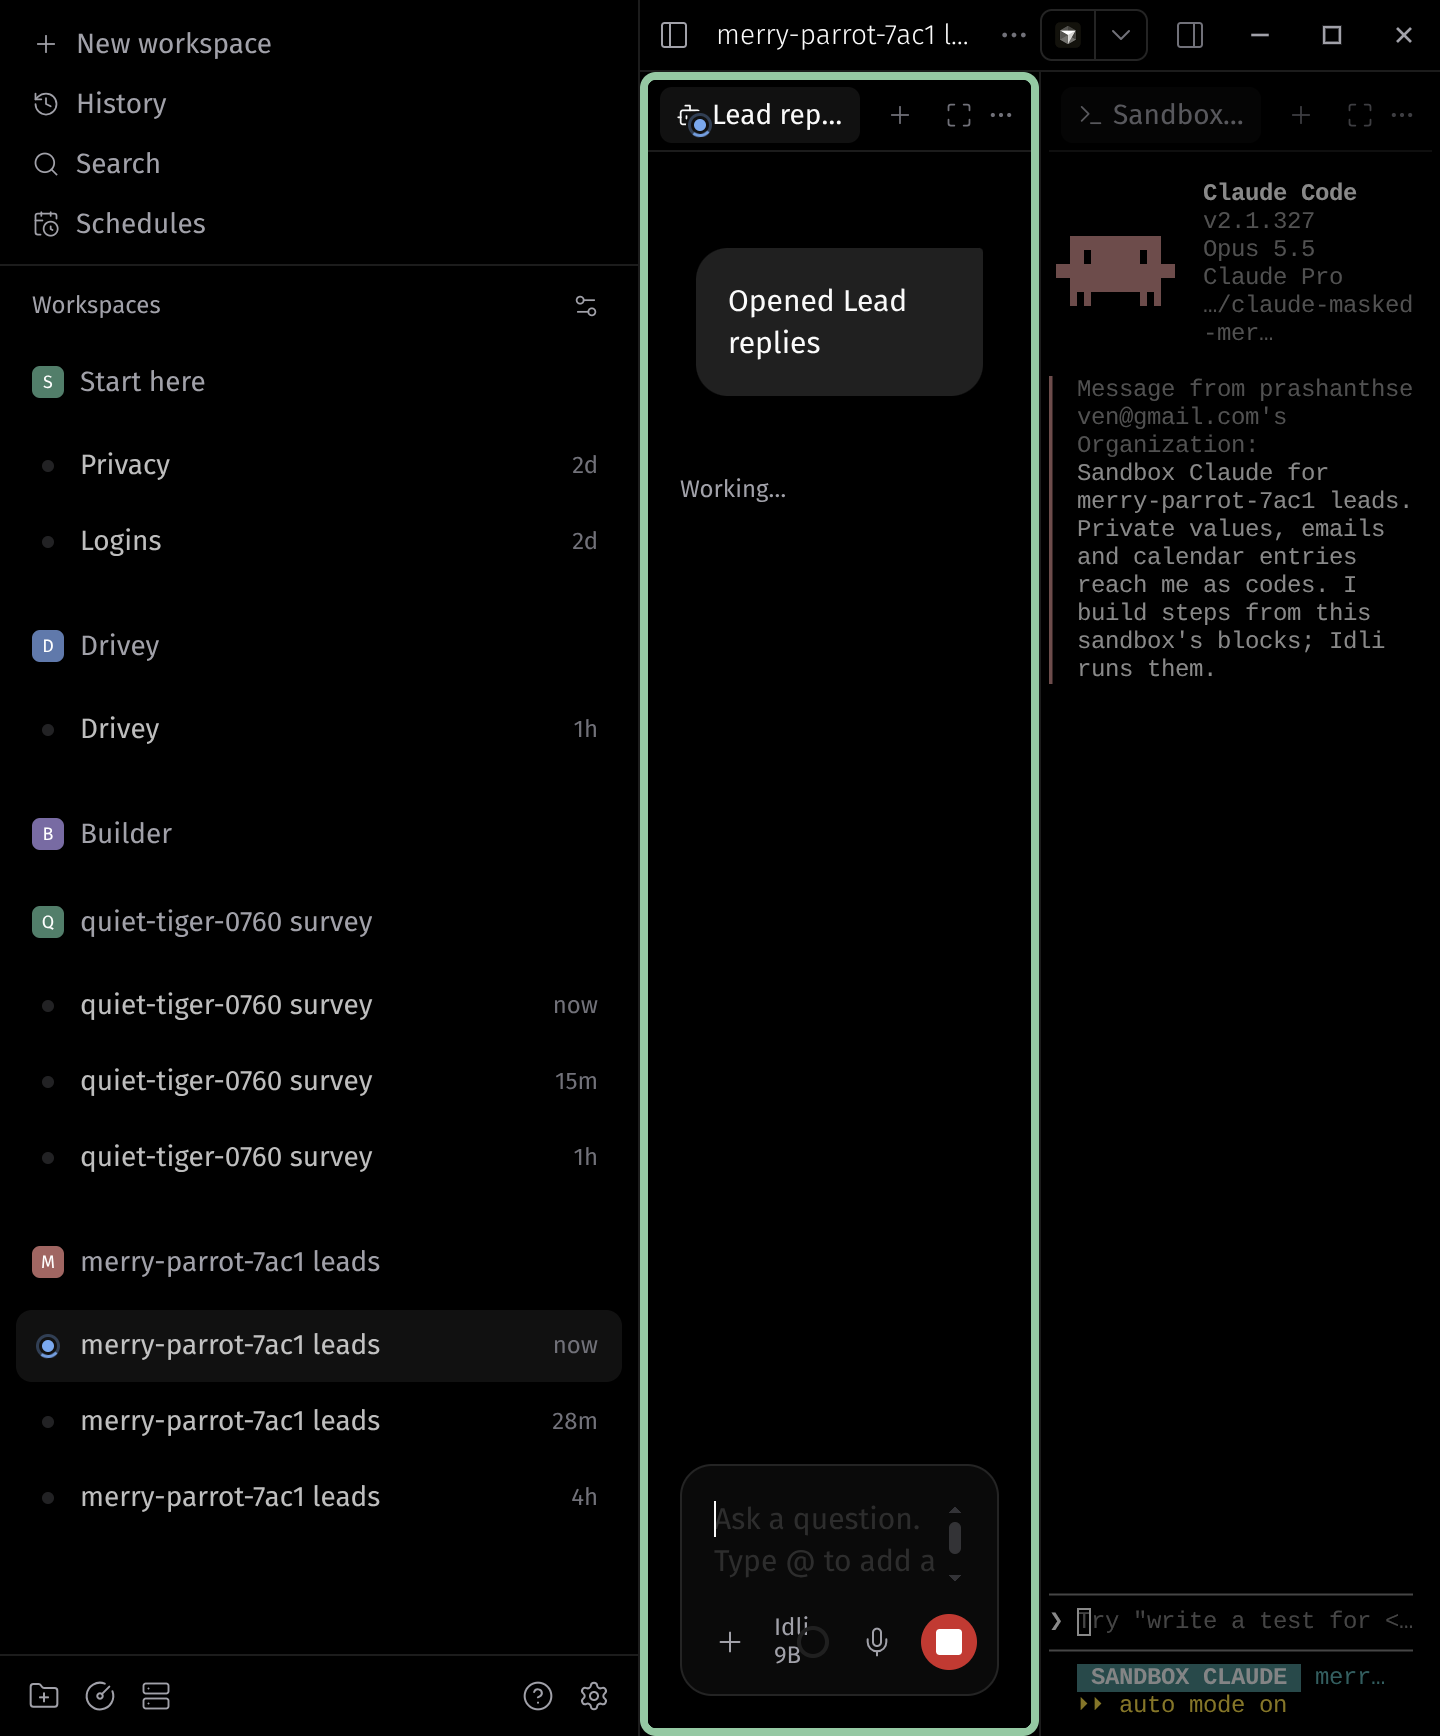
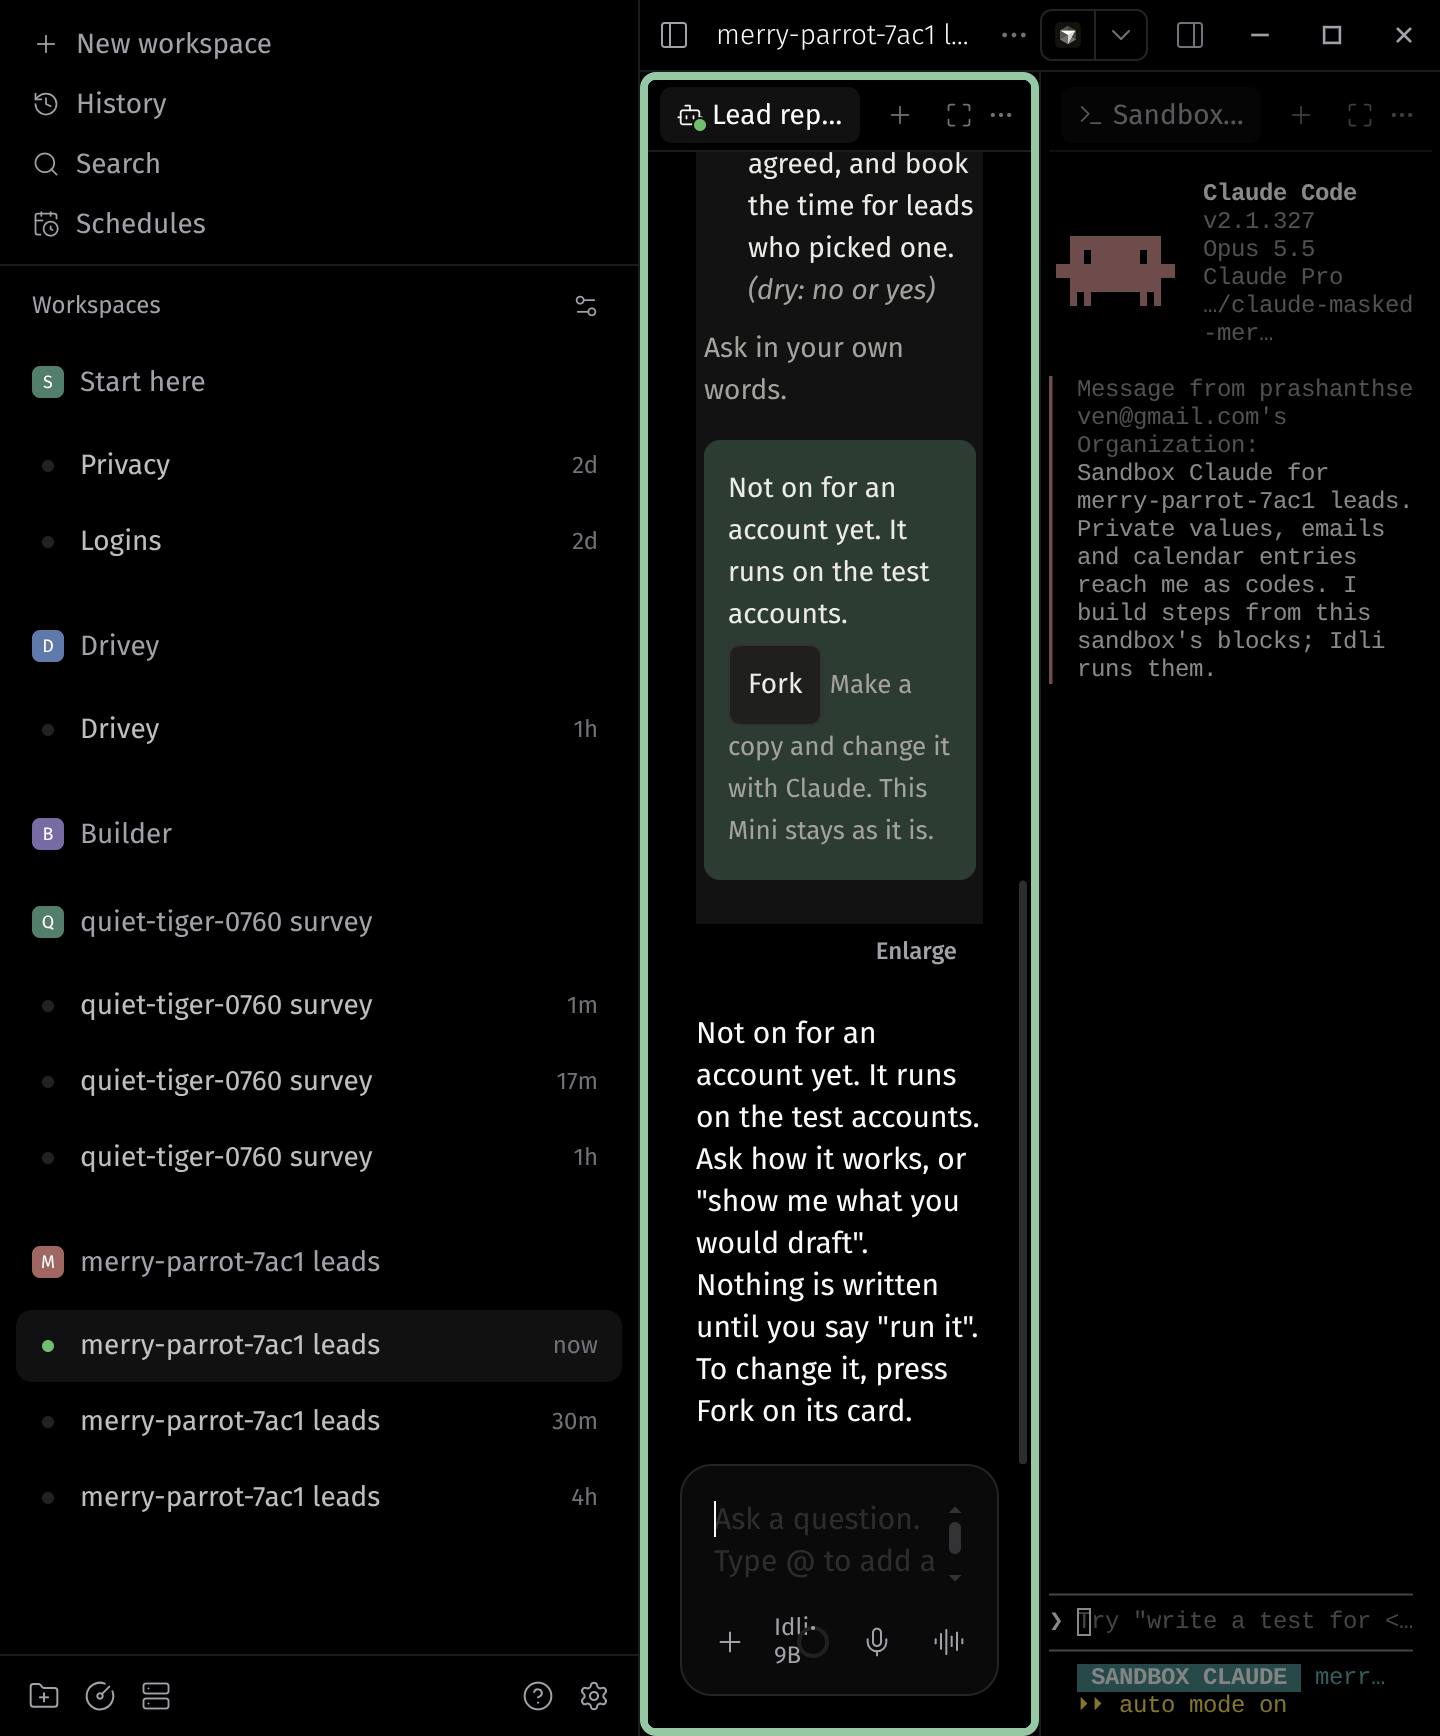
Builder and Minis round: README with pass/fail per step, gallery, SANDBOXES and ONGOING updated, chronology 5 (laptop link dropped before the turn-on and Fork checks)

diff --git a/benchmarks/runs/2026-11-18-builder-minis/shots/index.html b/benchmarks/runs/2026-11-18-builder-minis/shots/index.html
@@ -1,0 +1,1 @@
+<!doctype html><meta charset="utf-8"><meta name="viewport" content="width=device-width"><title>Builder and Minis</title><style>:root{color-scheme:light dark}body{font-family:system-ui;margin:16px;background:Canvas;color:CanvasText}figure{margin:0 0 24px}img{max-width:100%;border:1px solid #8884}</style><h1>Builder and Minis, 2026-11-18</h1><figure><figcaption>00-now.png</figcaption><img src="00-now.png" loading="lazy"></figure><figure><figcaption>01-builder-before.png</figcaption><img src="01-builder-before.png" loading="lazy"></figure><figure><figcaption>02-builder-new.png</figcaption><img src="02-builder-new.png" loading="lazy"></figure><figure><figcaption>03-model-menu-before.png</figcaption><img src="03-model-menu-before.png" loading="lazy"></figure><figure><figcaption>03b-providers-before.png</figcaption><img src="03b-providers-before.png" loading="lazy"></figure><figure><figcaption>04-builder-chat-after.png</figcaption><img src="04-builder-chat-after.png" loading="lazy"></figure><figure><figcaption>05-builder-new-after.png</figcaption><img src="05-builder-new-after.png" loading="lazy"></figure><figure><figcaption>06-builder-model-menu-after.png</figcaption><img src="06-builder-model-menu-after.png" loading="lazy"></figure><figure><figcaption>07-builder-placeholder.png</figcaption><img src="07-builder-placeholder.png" loading="lazy"></figure><figure><figcaption>08-builder-first-chat.png</figcaption><img src="08-builder-first-chat.png" loading="lazy"></figure><figure><figcaption>09-builder-new-tab.png</figcaption><img src="09-builder-new-tab.png" loading="lazy"></figure><figure><figcaption>10-builder-agent-tab.png</figcaption><img src="10-builder-agent-tab.png" loading="lazy"></figure><figure><figcaption>11-insights-at-picker.png</figcaption><img src="11-insights-at-picker.png" loading="lazy"></figure><figure><figcaption>12-insights-pdf-folder.png</figcaption><img src="12-insights-pdf-folder.png" loading="lazy"></figure><figure><figcaption>13-insights-new-question.png</figcaption><img src="13-insights-new-question.png" loading="lazy"></figure><figure><figcaption>14-insights-pdf-folder-after.png</figcaption><img src="14-insights-pdf-folder-after.png" loading="lazy"></figure><figure><figcaption>15-privacy-review.png</figcaption><img src="15-privacy-review.png" loading="lazy"></figure><figure><figcaption>16-privacy-entirely-withheld.png</figcaption><img src="16-privacy-entirely-withheld.png" loading="lazy"></figure><figure><figcaption>17-mini-opened.png</figcaption><img src="17-mini-opened.png" loading="lazy"></figure><figure><figcaption>18-mini-ask-explain.png</figcaption><img src="18-mini-ask-explain.png" loading="lazy"></figure>

diff --git a/benchmarks/runs/2026-11-18-builder-minis/README.md b/benchmarks/runs/2026-11-18-builder-minis/README.md
@@ -1,0 +1,57 @@
+# Builder first, folder insights, Minis to ask, turn on and fork (2026-11-18)
+
+The owner's round after the sandboxes run. Spec: [UX.md](../../../narrative/UX.md), sections "The Builder is Claude
+Code first", "Minis: ask, activate, fork", "Insights details". Driven on the laptop over CDP, as a person. The test
+accounts are 87profligate@gmail.com ("me") and 88profligate@gmail.com ("a lead").
+
+## Results
+
+| # | Step | Result | Shots |
+|---|---|---|---|
+| 1 | The owner's bug: a new Builder chat opened on Idli 9B and split into two panes | Reproduced | 00-03b |
+| 2 | Builder after Paseo idli26: the old 9B chat is one pane (its empty right pane closed itself) | Pass | 04 |
+| 3 | New Builder chat: the model menu shows only Claude, Opus 5.5 ticked. No Idli Careful or Auto | Pass | 05, 06 |
+| 4 | The composer says "Build with public data here. For private data or your own accounts, type /sandbox." | Pass | 07, 10 |
+| 5 | "hi, what can I do here?" on Opus: the same in Claude's words, one pane | Pass | 08 |
+| 6 | New tab, Agent inside the Builder: Opus, the same hint, one pane | Pass | 09, 10 |
+| 7 | Without Claude Code the menu falls back to Idli 9B and 30B | Unit test only (Claude Code is connected on the laptop) | n/a |
+| 8 | Insights: the owner's "Strategy Classics" folder (18 PDFs, no spreadsheets) | Pass: "Strategy Classics has 18 PDFs and no spreadsheets. Idli answers questions from spreadsheets. Reading these files is not a building block yet: ask the Builder for it." Before: "Could not open those files." | 12, 14 |
+| 9 | Insights: @ a folder that holds spreadsheets: uses them and says which, skips the rest | Unit tests only. No Drive folder on the laptop holds spreadsheets, and I didn't add one to the account | n/a |
+| 10 | Privacy page on "Strategy classics": the hidden Notes column | Pass: "Notes entirely withheld". Before: "Notes (blank) ->" with nothing after it | 15, 16 |
+| 11 | Open the Lead replies Mini | Pass: the card plus "Not on for an account yet... Ask how it works, or 'show me what you would draft'. Nothing is written until you say 'run it'. To change it, press Fork on its card." The first open ran the Mini once for real (an example run meant for chart Minis). Nothing doubled (drafts and bookings are keyed). Fixed in 7127882b | 17 |
+| 12 | "how are leads picked? which file does it use?" | Pass, thin: the 9B named the leads sheet and its id, and "replied in the last two weeks". It left out how the replies are classified | 18 |
+| 13 | "show me the draft response you'd write" | Preview ran on the real accounts, wrote nothing, and answered "no drafts: 5 already answered or booked, 5 no action". Correct: every reply was already handled. A fresh "yes" from 88 was sent so a draft would show, but the laptop link dropped before I could ask again | n/a |
+| 14 | "Turn this on for my account" (87 standing in) | Not run on the laptop (link down). Unit test: bound to 87 from today, Gmail searches get `after:<today>`, the reply says scheduling is not a block yet | n/a |
+| 15 | Fork: Fork button, Claude explains, change the rule, show results on the left, save as a new Mini | Not run on the laptop (link down). Unit test: the copy in Claude's `forks/<id>/` with FORK.md; the prompt goes to Sandbox Claude; the original's script is unchanged; the fork's draft is not offered "Add to" the original | n/a |
+| 16 | Drivey regression at the end | Not run (link down). Drivey code paths are unchanged apart from the shared privacy page and the folder message | n/a |
+
+The laptop's reverse tunnel (DevTools 49333, Paseo daemon 46767) dropped at about 16:42 IST. The laptop still
+answers Tailscale pings, but it has no SSH server, so only the owner can restart the tunnel:
+`desktop/laptop-up.sh start` on the laptop.
+
+## What changed
+
+- **Paseo idli26** (`desktop/paseo-idli-split.patch`, `utils/idli-builder.ts`): Builder chats are one pane; their
+  menu is Claude only (Opus first), or Idli 9B and 30B when Paseo has no Claude Code; the /sandbox hint.
+- **Laptop config and `setup-laptop.py`**: Idli Careful and Auto left the menu (the router still serves them).
+- **`lib/drivestubs.py`, `lib/modes.py`**: a folder from the @ picker comes without its trailing slash and is now
+  read as a folder. The reply names the files it used and what it skipped, or says there are no spreadsheets.
+- **`lib/privacy.py`, `lib/journey.js`**: the privacy page shows filled cells, and says "<column> entirely
+  withheld" when a hidden column is all blank or each cell became one code.
+- **`lib/minitalk.py`** (new tool `mini_talk`, routed by `lib/modes.py`): explain, preview, run, turn on or off,
+  change (points to Fork).
+- **`lib/blocks.py`**: `IDLI_PREVIEW=1` collects drafts and bookings instead of writing them; `IDLI_SINCE`
+  limits Gmail searches.
+- **`lib/minifork.py`**, Fork on `lib/mini-card.html`, `/api/mini-fork`.
+- **`script_try`**: preview by default; the real output is shown on the left as "Run from Claude: <title>".
+- **Checks before saving a Mini draft** run in preview.
+- **Opening an action Mini** no longer runs it.
+
+## Tests
+
+- `tests/test_builder_minis.py`: 11 tests.
+- `utils/idli-builder.test.ts` (Paseo): 3 tests.
+- On the DGX: 324 passed and 5 skipped in the usual set (`tests/`, `lib/test_ccproxy.py`, `lib/test_home.py`,
+  `lib/test_privacy*.py`, `lib/test_chat.py`). The 11 failures are the same before and after these changes
+  (DGX-only: Paseo CLI and launcher paths).
+- The laptop suite was not run (link down).

diff --git a/todos/ONGOING.md b/todos/ONGOING.md
@@ -70,15 +70,22 @@ Noted 2026-11-15.
   scripts on redacted questions).
 - **Removed:** Teams page, New team wizard, per-team Builder, Installed tools page.
 - **Unchanged:** Drivey, Start here.
-- **Testing now:**
-  - Drivey regression;
-  - Builder `/sandbox` for insights and for leads (87profligate as me, 88profligate as a lead);
-  - a gap case (Instagram).
-
-  Results will be in `benchmarks/runs/2026-11-18-sandboxes/`.
+- **Tested:** Drivey regression, Builder `/sandbox` for insights and leads, a gap case
+  (`benchmarks/runs/2026-11-18-sandboxes/`).
+- **Owner round, 2026-11-18 afternoon** (`benchmarks/runs/2026-11-18-builder-minis/`):
+  - the Builder is Claude Code first (one pane, Opus by default, Idli 9B and 30B only without Claude Code, a
+    /sandbox hint). Careful and Auto are off the menu;
+  - @ a folder works, and a folder with no spreadsheets gets a plain gap;
+  - the privacy page says "<column> entirely withheld";
+  - an action Mini can be asked (the 9B explains from its code), previewed on the real accounts with nothing
+    written, run, turned on for an account from today, or forked into Sandbox Claude. A fork's runs show on the
+    left and it saves as a new Mini.
+  - Laptop checks for turn on and Fork are still to do (the laptop link dropped).
 - **Open:**
   - redaction for account data (email bodies, senders, calendar titles) at the same standard as files;
-  - what a Mini is for an action workflow (a script with 9B calls), and how the person edits it;
-  - connecting the person's real account, with a "start from today" choice;
+  - escalating a Mini question the 9B can't place (masked, to an outside model) is not built; the 9B places
+    every question today;
+  - running a turned-on Mini on a schedule (a gap: no block);
+  - connecting the person's real account (turn on binds an account from today; test accounts only so far);
   - where the earlier work fits: team stacks, the trusted catalog, test-account Chrome profiles. These become
     blocks, or the Builder's tools, not team features.

diff --git a/narrative/SANDBOXES.md b/narrative/SANDBOXES.md
@@ -71,6 +71,28 @@ per-team Builder. Drivey is unchanged.
   idli, then Select all, then Continue.
 - **Labels:** the right pane is titled "Sandbox Claude", with a teal SANDBOX CLAUDE status line.
 
+## Saved action Minis: ask, turn on, fork (2026-11-18, owner)
+
+A saved Mini is frozen. The person builds trust by asking it things, then turns it on, or forks it to change it.
+
+- **Ask** (left chat, `mini_talk`, `lib/minitalk.py`). Anything typed while an action Mini is open goes to the 9B
+  with the Mini's steps and code. It picks one:
+  - explain: it answers from the code;
+  - preview: Idli runs the Mini on the real accounts with `IDLI_PREVIEW=1`. Reading works as usual, but drafts
+    and bookings are only collected. The 9B answers from the output, and drafts are shown in full. Nothing is
+    drafted, booked or sent;
+  - run: it runs for real (never twice);
+  - turn on or off: binds the Mini to an account from today (`IDLI_SINCE` adds `after:` to Gmail searches).
+    Running on a schedule is a gap;
+  - change: points to Fork.
+
+  Opening an action Mini never runs it.
+- **Fork** (button on the Mini card, `lib/minifork.py`). The scripts are copied, values coded again, to Sandbox
+  Claude's `forks/<id>/` with FORK.md. Sandbox Claude opens on the right with the current flow and asks how to
+  change it. Its `script_try` runs in preview by default. The real output shows on the left as "Run from Claude:
+  <title>", and Claude gets it masked. Saving makes a new Mini with `forked_from`; the original never changes.
+- **Not built:** escalating a Mini question the 9B can't place, masked, to an outside model.
+
 ## Tested
 
-See `benchmarks/runs/2026-11-18-sandboxes/README.md`, which has screenshots for each step.
+See `benchmarks/runs/2026-11-18-sandboxes/README.md` and `benchmarks/runs/2026-11-18-builder-minis/README.md`, which have screenshots for each step.

diff --git a/chronology/2026-11-18T0900-catalog-routines-sandboxes.md b/chronology/2026-11-18T0900-catalog-routines-sandboxes.md
@@ -167,3 +167,14 @@ details". Evidence in `benchmarks/runs/2026-11-18-builder-minis/`.
   - Found while testing: opening an action Mini ran it once for real (an "example" run meant for chart Minis).
     Drafts and bookings are keyed, so nothing doubled, but opening must not act: fixed. Checks before saving a
     draft now run in preview too.
+- **Laptop checks of the Minis.**
+  - Opening the Mini shows the new line.
+  - "How are leads picked? Which file?": the 9B named the sheet and the two-week window, but not the
+    classification.
+  - "Show me the draft you'd write": the preview ran and wrote nothing. It found no draft to write, because every
+    reply was already handled.
+  - 88 then sent a fresh "yes", but the laptop's reverse tunnel (49333 and 46767) dropped at about 16:42 IST.
+    Turning the Mini on, Fork end to end, the draft shown in full and the final Drivey regression were not run on
+    the laptop. Unit tests cover them.
+  - The owner needs to run `desktop/laptop-up.sh start` on the laptop.
+  - Results so far are in `benchmarks/runs/2026-11-18-builder-minis/README.md`.
